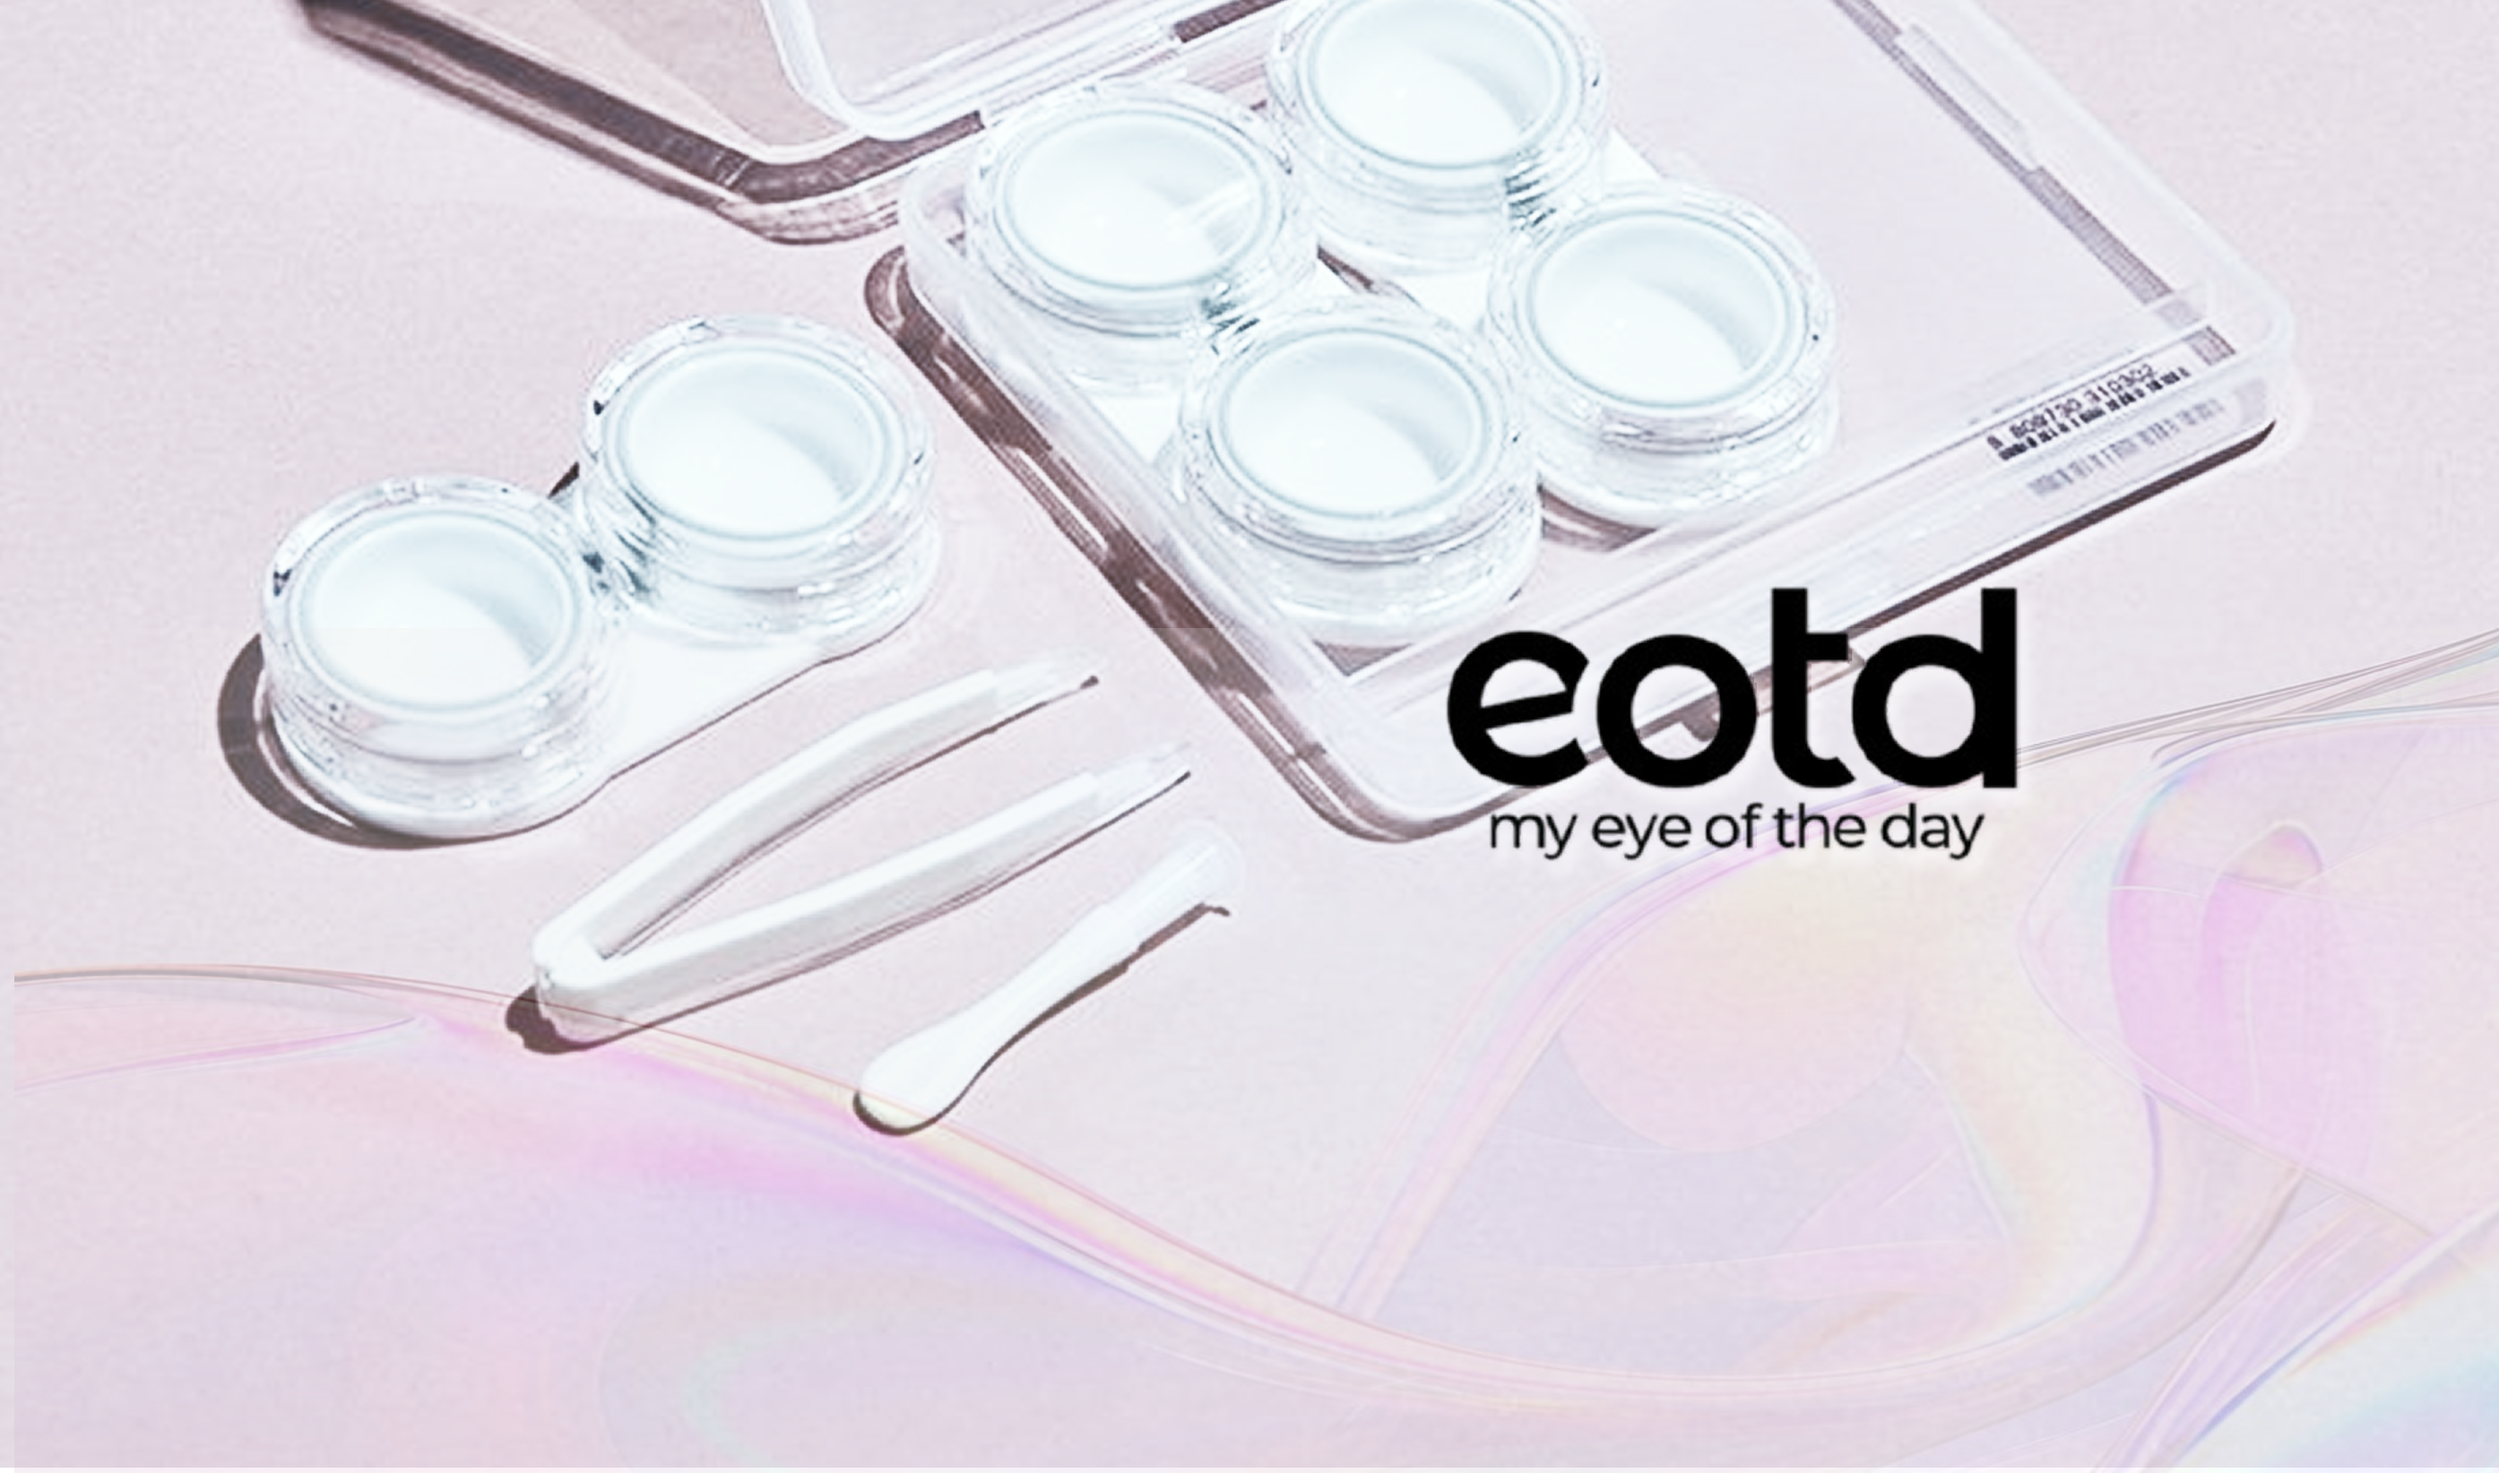
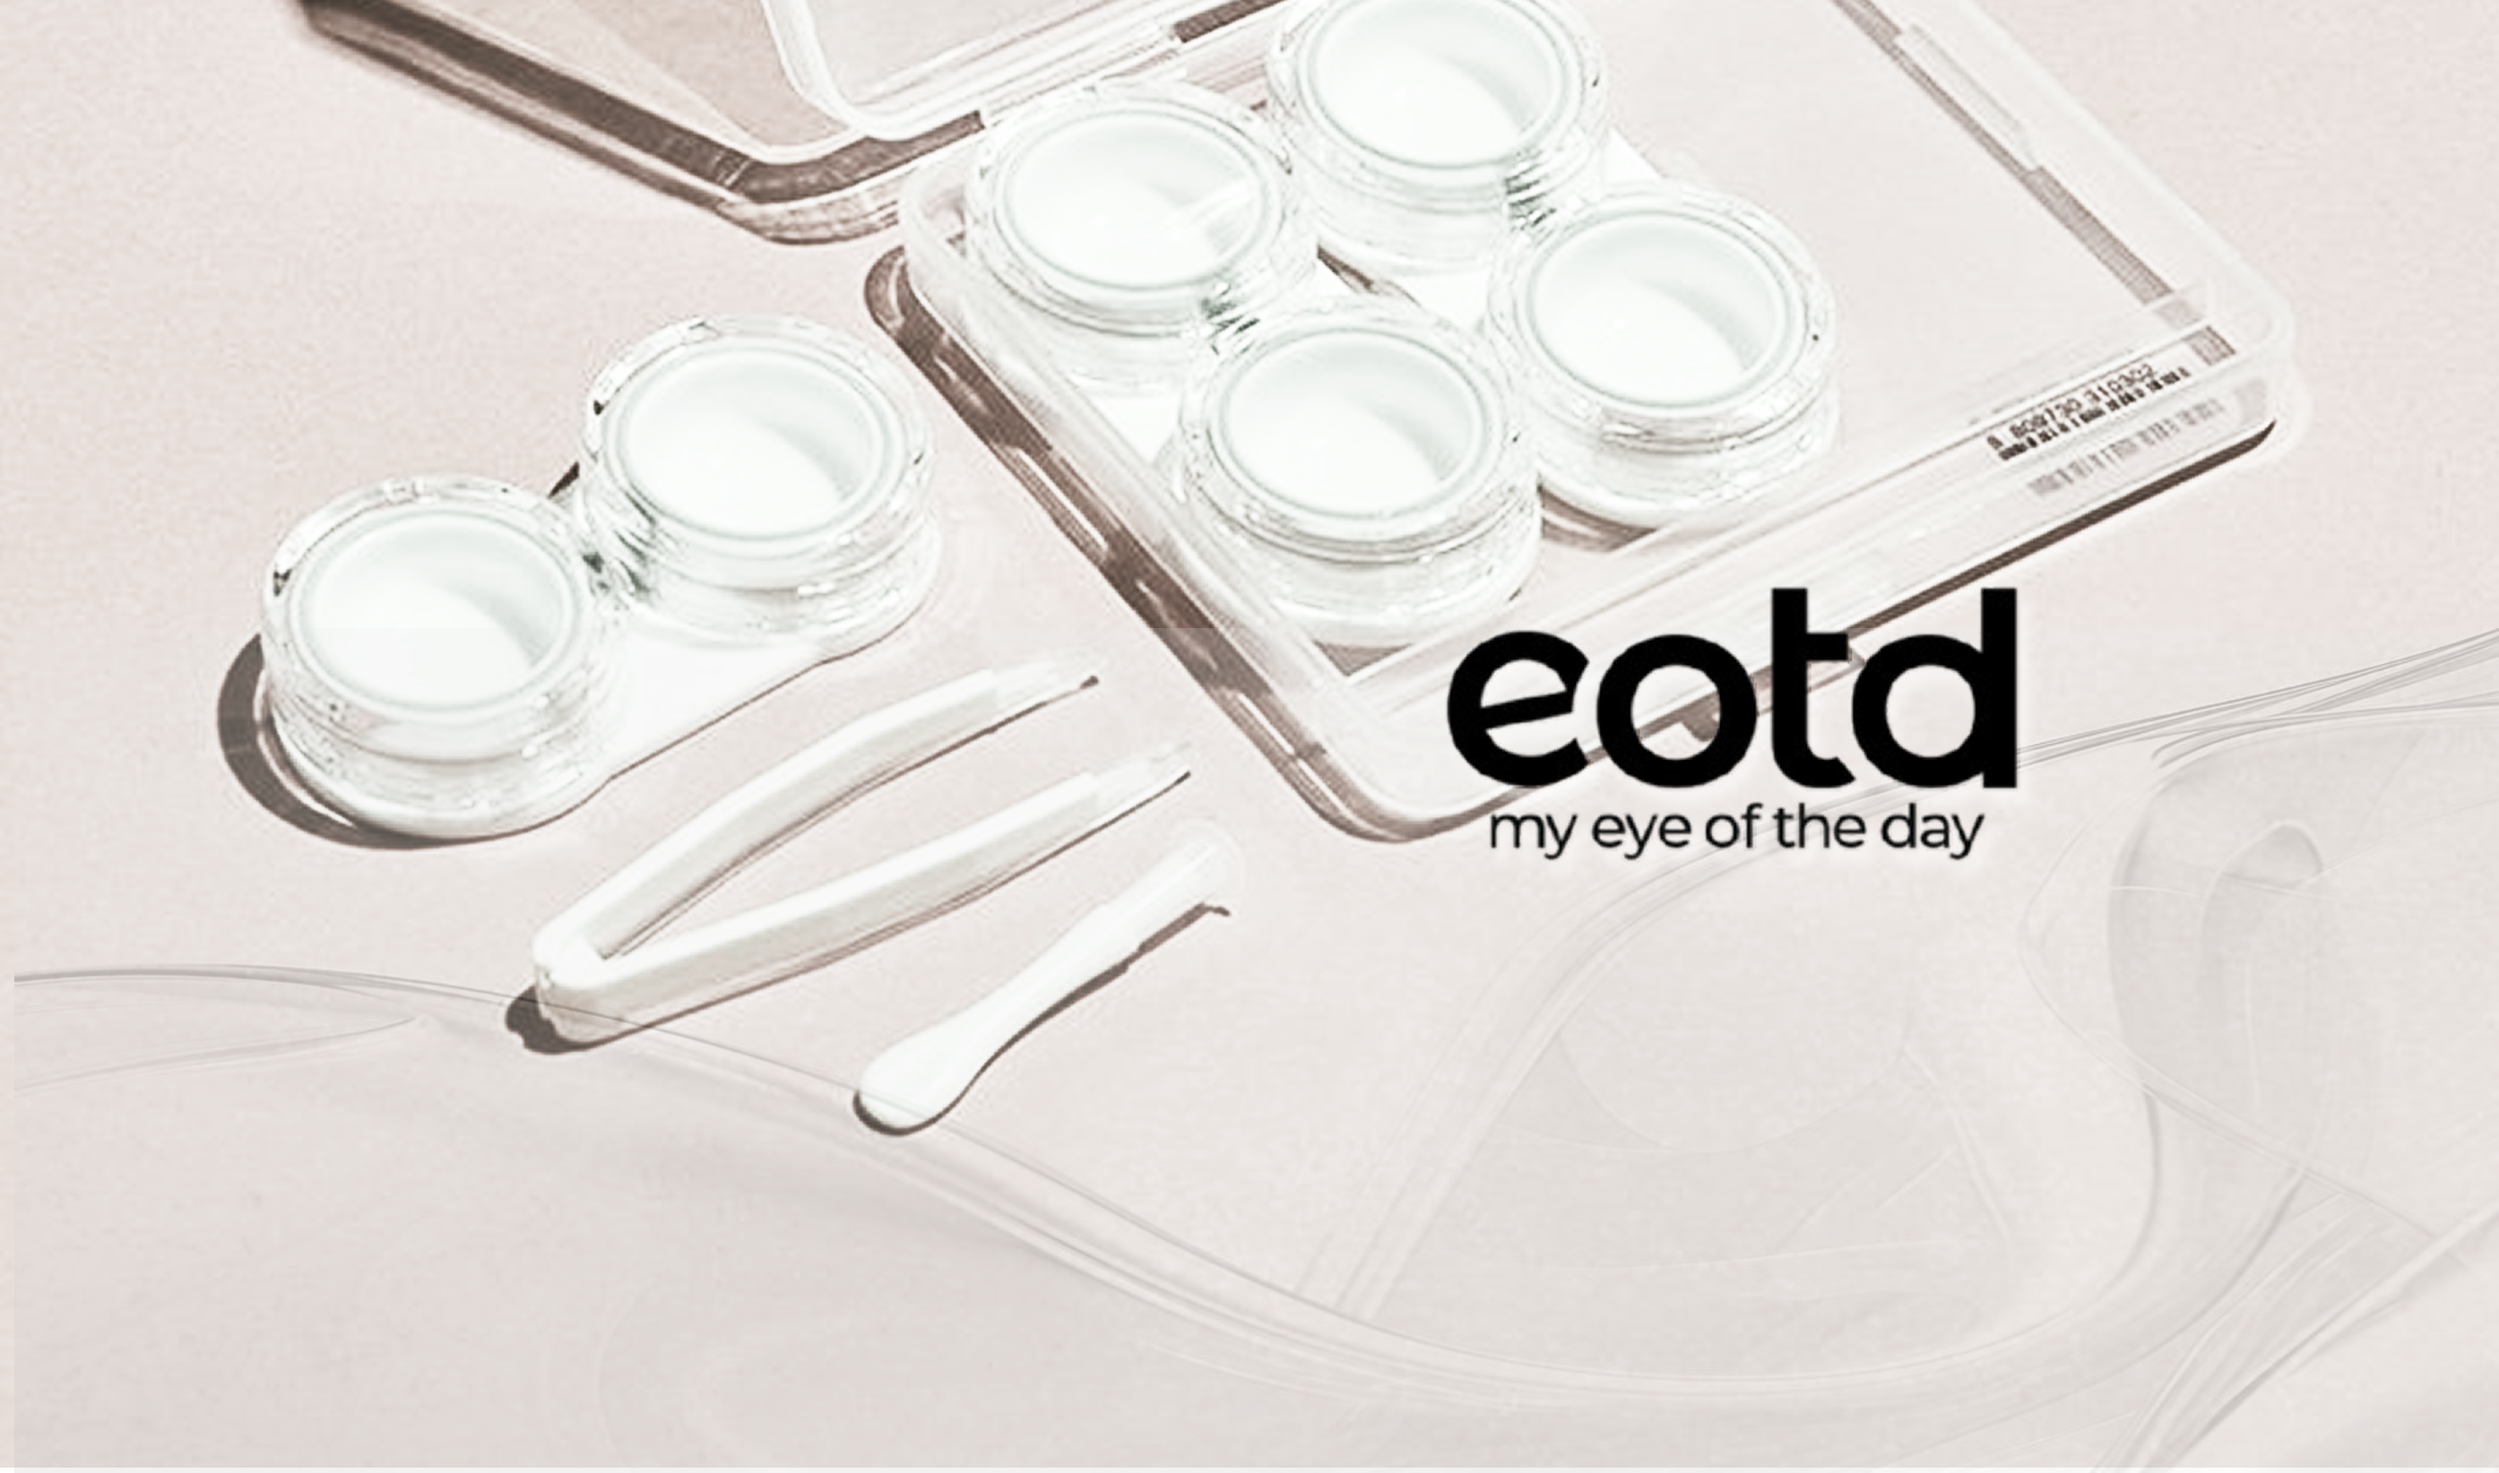
work images added

Changed region(s): [[0.2496, 0.7755, 0.4369, 0.8686], [0.8737, 0.9307, 0.9049, 0.9617]]

diff --git a/css/style.css b/css/style.css
@@ -1006,11 +1006,7 @@ p {
 }
 
 .work5-01 {
-    background: linear-gradient(20deg, #b8d2c6, #73a67f, #b7eab7);
-}
-
-.work5-01 img {
-    background: linear-gradient(20deg, #c9e785, #b7bba4, #f4ff97);
+    background: linear-gradient(20deg, #ebffe4, #dddddd, #effde1);
 }
 
 .work5-02 {
@@ -1018,19 +1014,19 @@ p {
 }
 
 .work5-03 {
-    background: linear-gradient(20deg, #dacdbb, #dfc9c4, #bcc1ce);
+    background: linear-gradient(20deg, #dacdbb, #dfddc4, #bcc1ce);
 }
 
 .work5-04 {
-    background: linear-gradient(20deg, #dce3cf, #ededed, #f1ebeb);
+    background: linear-gradient(20deg, #a49a9a, #ededed, #f1ebeb);
 }
 
 .work5-05 {
-    background: linear-gradient(20deg, #453350, #0b1026, #7c8181);
+    background: linear-gradient(20deg, #ffeffa, #f6f7ff, #f4f6fb);
 }
 
 .work5-06 {
-    background: linear-gradient(20deg, #e7dddd, #dad0dd, #ffffff);
+    background: linear-gradient(20deg, #dfdddd, #dddad8, #ffffff);
 }
 
 .work6-01 {
